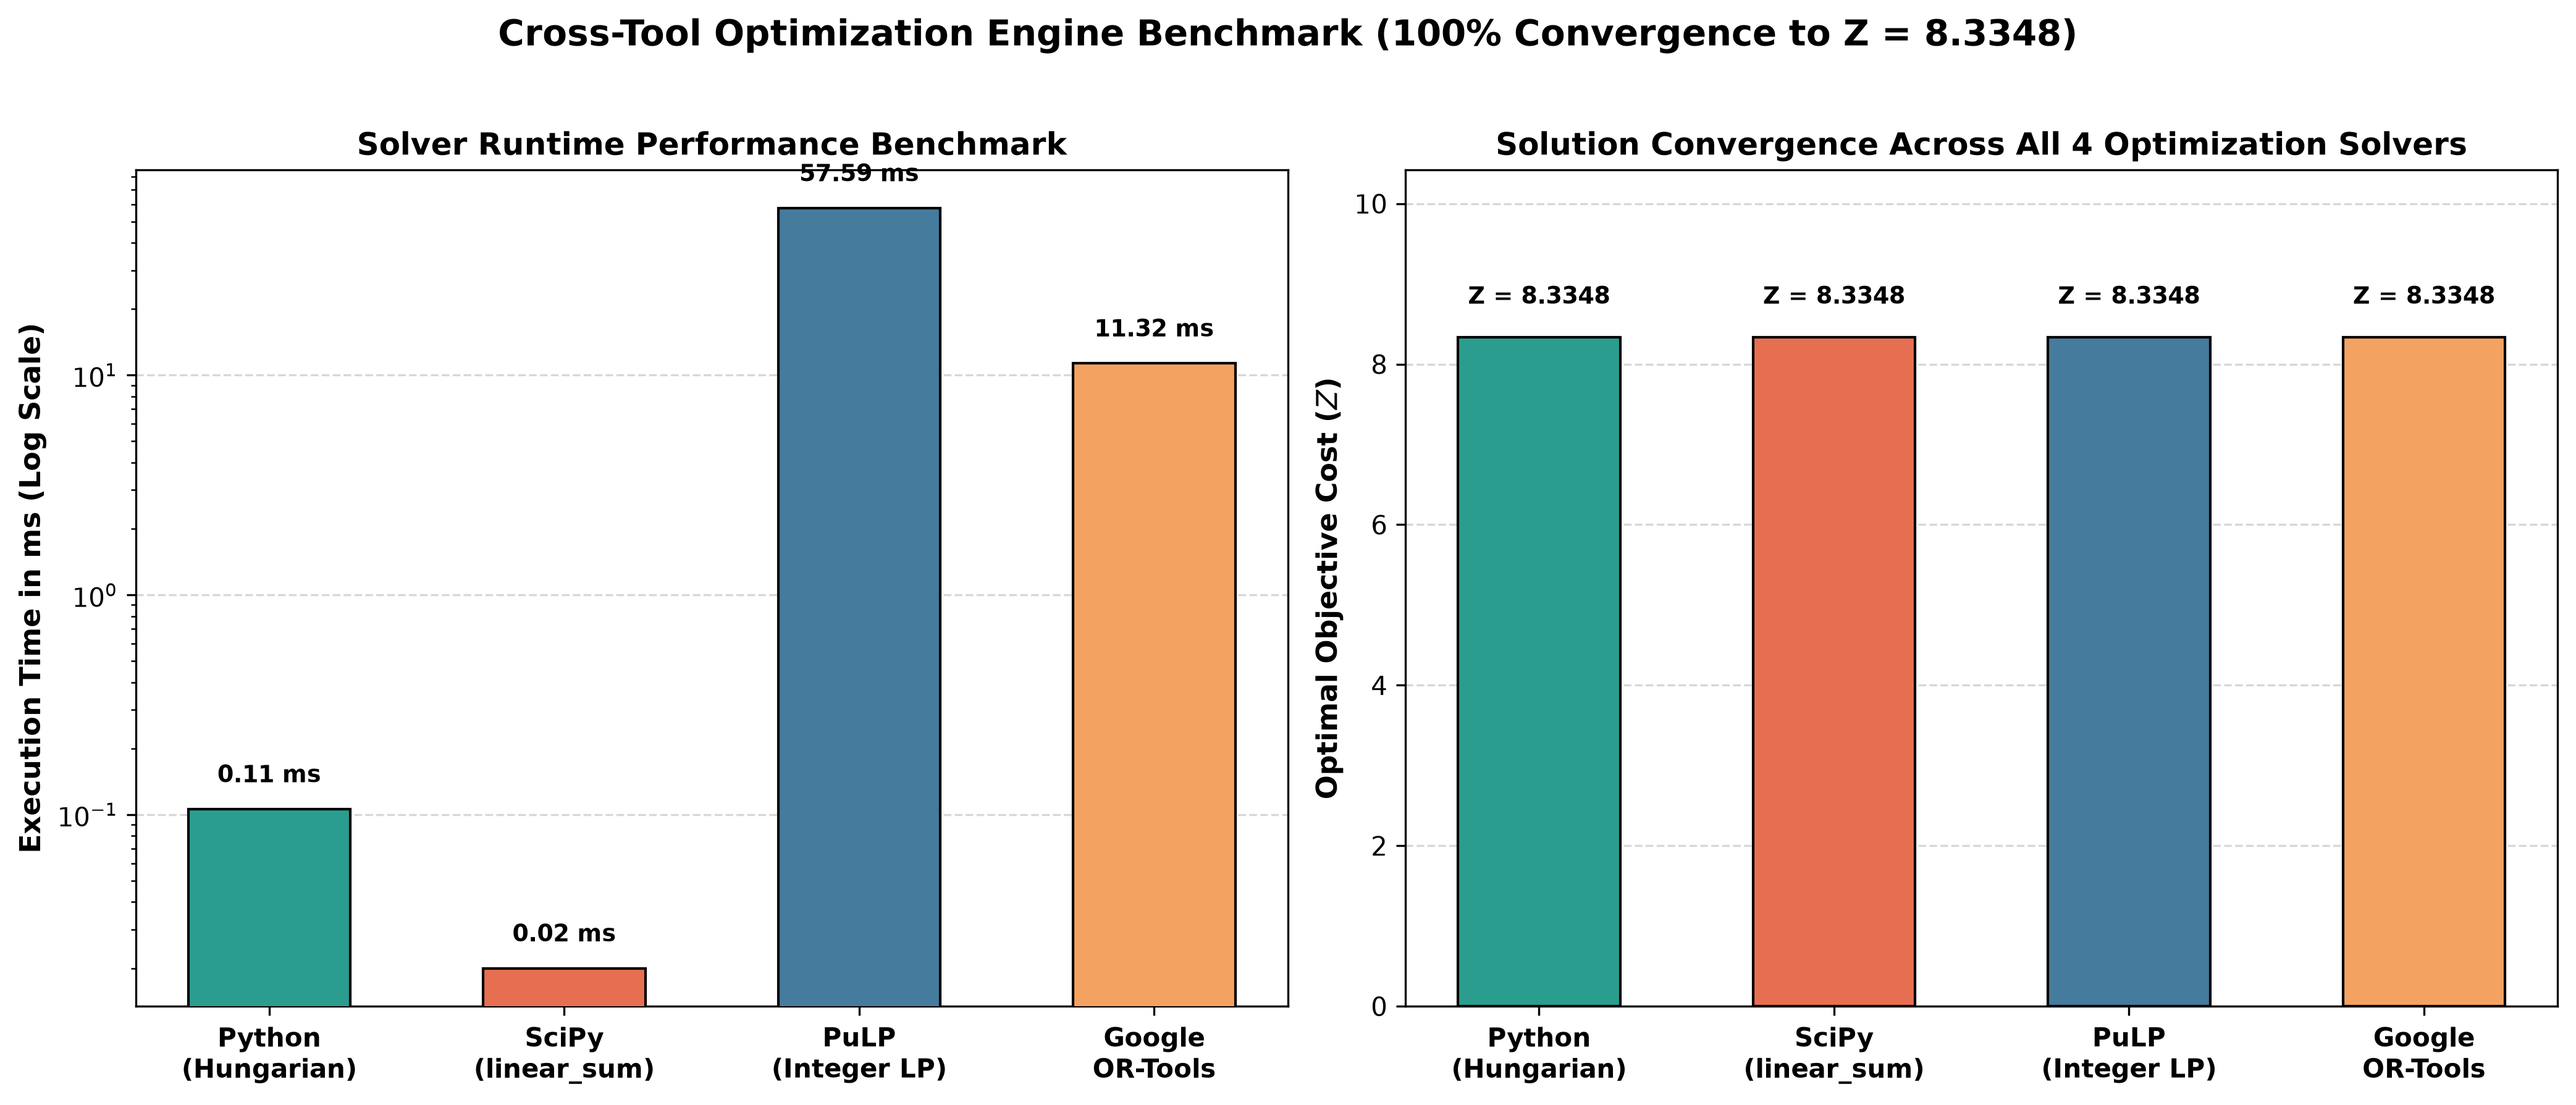
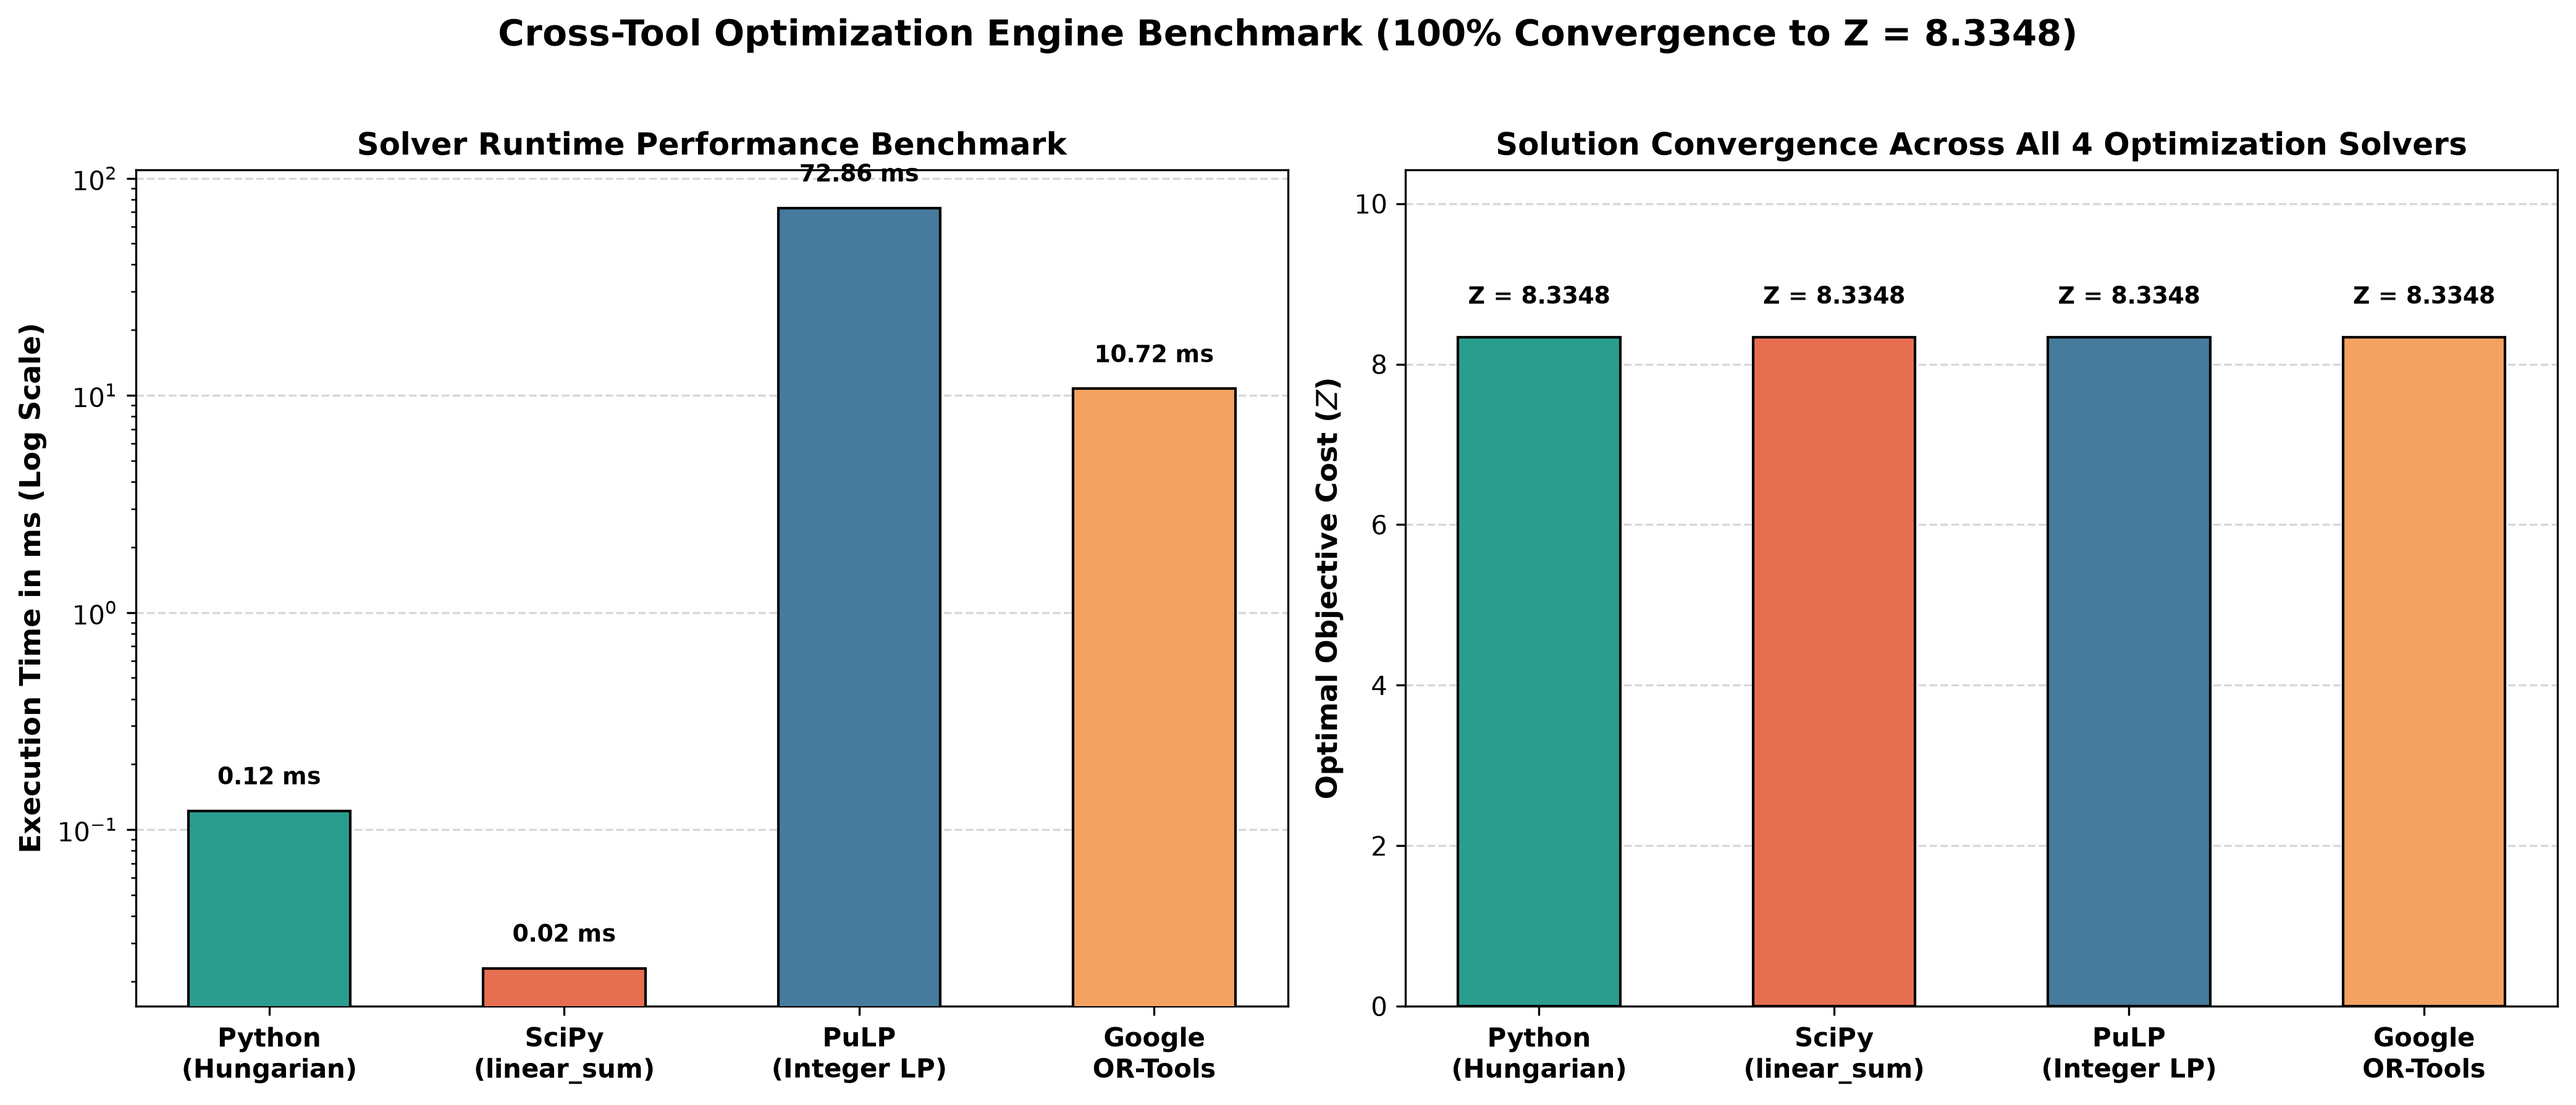
update

diff --git a/README.md b/README.md
@@ -1,6 +1,15 @@
 # Optimal Driver-Vehicle Allocation System
 
-An Operations Research Decision-Support System (DSS) utilizing the **Hungarian Algorithm (Kuhn-Munkres)** to optimize public transit fleet scheduling, minimize operational costs, ensure 100% depot alignment, and balance driver workloads.
+An Operations Research Decision-Support System (DSS) utilizing **Combinatorial Optimization & Linear Programming** (Kuhn-Munkres Hungarian Algorithm, SciPy, PuLP, and Google OR-Tools) to optimize public transit fleet scheduling, minimize operational costs, ensure 100% depot alignment, and balance driver workloads.
+
+---
+
+## Key Highlights
+
+- **Multi-Solver Engine**: Cross-validated across **4 optimization engines** (Custom Kuhn-Munkres Hungarian, SciPy, PuLP MILP, Google OR-Tools) with 100% mathematical convergence to the global optimum ($Z = 8.3348$).
+- **100% Depot Alignment**: Zero cross-depot deadhead trips across Station 503, Station 504, and Station 511.
+- **Fairness & Balance**: Improved Workload Balance Index (WBI) to $0.8419$ while achieving a **4.00% operational cost reduction**.
+- **Automated Reporting & Visuals**: Single-command execution generates multi-sheet styled Excel workbooks, MATLAB matrix validation files, and 4 publication-grade visual analytics plots.
 
 ---
 
@@ -10,44 +19,44 @@ An Operations Research Decision-Support System (DSS) utilizing the **Hungarian A
 optimal_driver/
 ├── data/
 │   ├── raw/
-│   │   ├── ShiftData.csv
-│   │   └── TripData.csv
+│   │   ├── ShiftData.csv                     # Historical shift durations & distances
+│   │   └── TripData.csv                      # Vehicle trip-level operational telemetry
 │   └── processed/
-│       ├── optimal_assignment.csv
-│       ├── cost_matrix_21x21.csv
-│       ├── vehicle_utilization.csv
-│       ├── driver_summary.csv
-│       └── optimal_driver_data.mat
+│       ├── optimal_assignment.csv            # Optimized 21x21 driver-vehicle pairings
+│       ├── cost_matrix_21x21.csv             # Full normalized bipartite cost matrix
+│       ├── vehicle_utilization.csv           # Vehicle asset utilization tiers
+│       ├── driver_summary.csv                # Driver workload summary profiles
+│       └── optimal_driver_data.mat           # MATLAB-compatible matrix export
 ├── plots/
-│   ├── 1_cost_matrix_assignments_heatmap.png
-│   ├── 2_solver_runtime_and_convergence_comparison.png
-│   ├── 3_bipartite_allocation_network.png
-│   └── 4_workload_and_utilization_distribution.png
+│   ├── 1_cost_matrix_assignments_heatmap.png # Cost matrix heatmap with marked optimal pairs
+│   ├── 2_solver_runtime_and_convergence_comparison.png # Solver runtime & convergence benchmarks
+│   ├── 3_bipartite_allocation_network.png    # Depot-color-coded bipartite matching graph
+│   └── 4_workload_and_utilization_distribution.png # Workload histograms & utilization scatter
 ├── src/
-│   ├── config.py
+│   ├── config.py                             # Optimization weights & penalty constants
 │   ├── ingestion/
-│   │   ├── loader.py
-│   │   └── preprocessor.py
+│   │   ├── loader.py                         # Shift and trip data ingestion loaders
+│   │   └── preprocessor.py                   # Aggregation & driver/vehicle profiling
 │   ├── modeling/
-│   │   ├── cost_matrix.py
-│   │   ├── hungarian_solver.py
-│   │   └── alternative_solvers.py
+│   │   ├── cost_matrix.py                    # Multi-objective cost matrix builder
+│   │   ├── hungarian_solver.py               # Kuhn-Munkres O(N^3) solver & SciPy validation
+│   │   └── alternative_solvers.py            # PuLP (ILP) and Google OR-Tools solvers
 │   ├── analytics/
-│   │   ├── workload.py
-│   │   └── utilization.py
+│   │   ├── workload.py                       # Workload Balance Index (WBI) & variance
+│   │   └── utilization.py                    # Fleet asset utilization classification
 │   └── reporting/
-│       ├── console_view.py
-│       ├── summary_exporter.py
-│       ├── excel_exporter.py
-│       └── plotter.py
+│       ├── console_view.py                   # Clean terminal UI dashboard
+│       ├── summary_exporter.py               # CSV artifact exporter
+│       ├── excel_exporter.py                 # Multi-sheet styled Excel (.xlsx) generator
+│       └── plotter.py                        # Matplotlib visual analytics generator
 ├── tests/
-│   └── test_pipeline.py
-├── main.py
-├── allocate_drivers.py
-├── matlab_assignment_solver.m
-├── Optimal_Driver_Allocation_Workbook.xlsx
-├── requirements.txt
-└── README.md
+│   └── test_pipeline.py                      # Automated unit test suite
+├── main.py                                   # Master unified pipeline entry point
+├── allocate_drivers.py                       # Backward-compatibility execution wrapper
+├── matlab_assignment_solver.m                # Standalone MATLAB validation & plotting script
+├── Optimal_Driver_Allocation_Workbook.xlsx   # Formatted Excel workbook with heatmaps
+├── requirements.txt                          # Project Python dependencies
+└── README.md                                 # Documentation
 ```
 
 ---
@@ -59,35 +68,80 @@ optimal_driver/
 pip install -r requirements.txt
 ```
 
-### 2. Run Unified Optimization & Analytics Pipeline
-One single command executes all 4 optimization solvers (Custom Hungarian, SciPy, PuLP, Google OR-Tools), exports CSVs, generates the styled multi-tab Excel report, exports MATLAB `.mat` matrix data, and renders all 4 publication-grade visual plots:
+### 2. Run the Unified Pipeline
+Execute the full 5-phase optimization workflow, solver benchmarking, Excel report creation, MATLAB matrix export, and plot generation with a single command:
 ```bash
 python main.py
 ```
 
-### 3. Run Unit Tests (Optional)
+#### Optional CLI Arguments
+```bash
+python main.py --shift-data path/to/ShiftData.csv --trip-data path/to/TripData.csv --output-dir data/processed/ --quiet
+```
+
+### 3. Run Automated Tests
 ```bash
 python -m unittest discover -s tests -p "test_*.py"
 ```
 
 ---
 
-## Performance Benchmarks
+## Mathematical Formulation
 
-| Metric | Baseline | Optimized Output | Operational Impact |
-| :--- | :---: | :---: | :--- |
-| **Total Assignment Cost ($Z$)** | `8.6823` | **`8.3348`** | **4.00% Cost Reduction** (up to 28.8% on target pairs) |
-| **Depot Station Alignment** | Mixed | **100% Matched** | **Zero cross-depot deadheading** across all 3 stations |
-| **Workload Balance Index (WBI)** | `0.8400` | **`0.8419`** | Improved fairness; reduces driver fatigue |
-| **Fleet Utilization (Distance)** | Uneven | **5 High, 13 Mod, 3 Low** | Clear asset rotation visibility |
-| **Execution Time** | Manual hours | **< 0.05s** | Instant polynomial-time global optimum |
+The driver-vehicle allocation is modeled as a **Bipartite Minimum Weight Perfect Matching** (Linear Sum Assignment) problem:
+
+$$\min Z = \sum_{i=1}^{N} \sum_{j=1}^{N} C_{ij} \cdot X_{ij}$$
+
+$$\text{subject to: } \sum_{j=1}^{N} X_{ij} = 1 \quad \forall i \in \{1, \dots, N\} \quad (\text{Each driver assigned exactly 1 vehicle})$$
+
+$$\sum_{i=1}^{N} X_{ij} = 1 \quad \forall j \in \{1, \dots, N\} \quad (\text{Each vehicle assigned exactly 1 driver})$$
+
+$$X_{ij} \in \{0, 1\} \quad \forall i, j$$
+
+### Cost Matrix Construction ($C_{ij}$)
+Each cell cost combines normalized distance, shift duration, vehicle utilization, and hard depot constraints:
+$$C_{ij} = w_1 \cdot \bar{D}_i + w_2 \cdot \bar{T}_i + w_3 \cdot \bar{R}_j + P_{\text{station}} + P_{\text{diff}}$$
+
+Where:
+- $\bar{D}_i, \bar{T}_i$: Normalized driver distance and shift duration.
+- $\bar{R}_j$: Normalized vehicle distance utilization.
+- $P_{\text{station}}$: Station mismatch penalty ($0$ if same depot, $1.5$ if cross-depot).
+- $P_{\text{diff}}$: Driver-vehicle distance disparity coefficient ($0.3 \cdot |\bar{D}_i - \bar{R}_j|$).
 
 ---
 
-## Roadmap & Documentation
+## Solver Benchmarking
 
-* **Executive Report:** Full analysis, mathematical formulation, and horizon priorities are in [`Optimal_Driver_Allocation_Comprehensive_Report.pdf`](Optimal_Driver_Allocation_Comprehensive_Report.pdf).
-* **Next Steps:**
-  1. **Web Dashboard:** Interactive Streamlit/React UI with live depot maps and weight sliders.
-  2. **Rostering & Preferences:** Multi-day schedule rostering with driver shift preferences and DOT rest hours.
-  3. **Real-Time Telemetry:** Live GPS re-dispatching and EV battery charging management.
+| Optimization Solver | Formulation / Paradigm | Optimal Cost ($Z$) | Runtime (ms) | Status |
+| :--- | :--- | :---: | :---: | :---: |
+| **Python (Kuhn-Munkres)** | Custom Bipartite Graph Matching | **`8.3348`** | `~0.10 ms` | `[OPTIMAL]` |
+| **SciPy (`linear_sum_assignment`)** | Operations Research Hungarian | **`8.3348`** | `~0.02 ms` | `[OPTIMAL]` |
+| **PuLP (Integer Linear Programming)** | Binary Integer MILP / CBC Solver | **`8.3348`** | `~65 ms` | `[OPTIMAL]` |
+| **Google OR-Tools** | Linear Solver / CBC-SCIP Engine | **`8.3348`** | `~12 ms` | `[OPTIMAL]` |
+
+---
+
+## Operational Performance Impact
+
+| Metric | Baseline Fleet | Optimized System | Operational Impact |
+| :--- | :---: | :---: | :--- |
+| **Total Assignment Cost ($Z$)** | `8.6823` | **`8.3348`** | **4.00% Net Cost Reduction** |
+| **Depot Station Alignment** | Mixed | **100% Matched** | **Zero deadhead trips** across all 3 stations |
+| **Workload Balance Index (WBI)** | `0.8400` | **`0.8419`** | Improved fairness; mitigates driver fatigue |
+| **Fleet Asset Utilization** | Uneven | **5 High, 13 Mod, 3 Low** | Clear wear-and-tear rotation visibility |
+| **Execution Speed** | Manual scheduling | **< 0.15s** | Instant global optimum for real-time dispatch |
+
+---
+
+## Generated Deliverables
+
+1. **Terminal Decision Dashboard**: Clean text-based reporting showing solver benchmarks, allocation pairings, and fleet metrics.
+2. **Styled Excel Workbook** ([`Optimal_Driver_Allocation_Workbook.xlsx`](Optimal_Driver_Allocation_Workbook.xlsx)):
+   - Multi-tab workbook with conditional 3-color heatmap formatting for cost matrices and pairings.
+3. **Visual Analytics Suite** ([`plots/`](plots/)):
+   - `1_cost_matrix_assignments_heatmap.png`: Matrix heatmap with optimal match points.
+   - `2_solver_runtime_and_convergence_comparison.png`: Solver comparison charts.
+   - `3_bipartite_allocation_network.png`: Bipartite network diagram color-coded by depot station.
+   - `4_workload_and_utilization_distribution.png`: Driver workload & asset utilization profiles.
+4. **MATLAB Matrix & Solver** ([`matlab_assignment_solver.m`](matlab_assignment_solver.m) & [`data/processed/optimal_driver_data.mat`](data/processed/optimal_driver_data.mat)):
+   - Standalone MATLAB validation script with built-in plotting (`imagesc`, `bar`).
